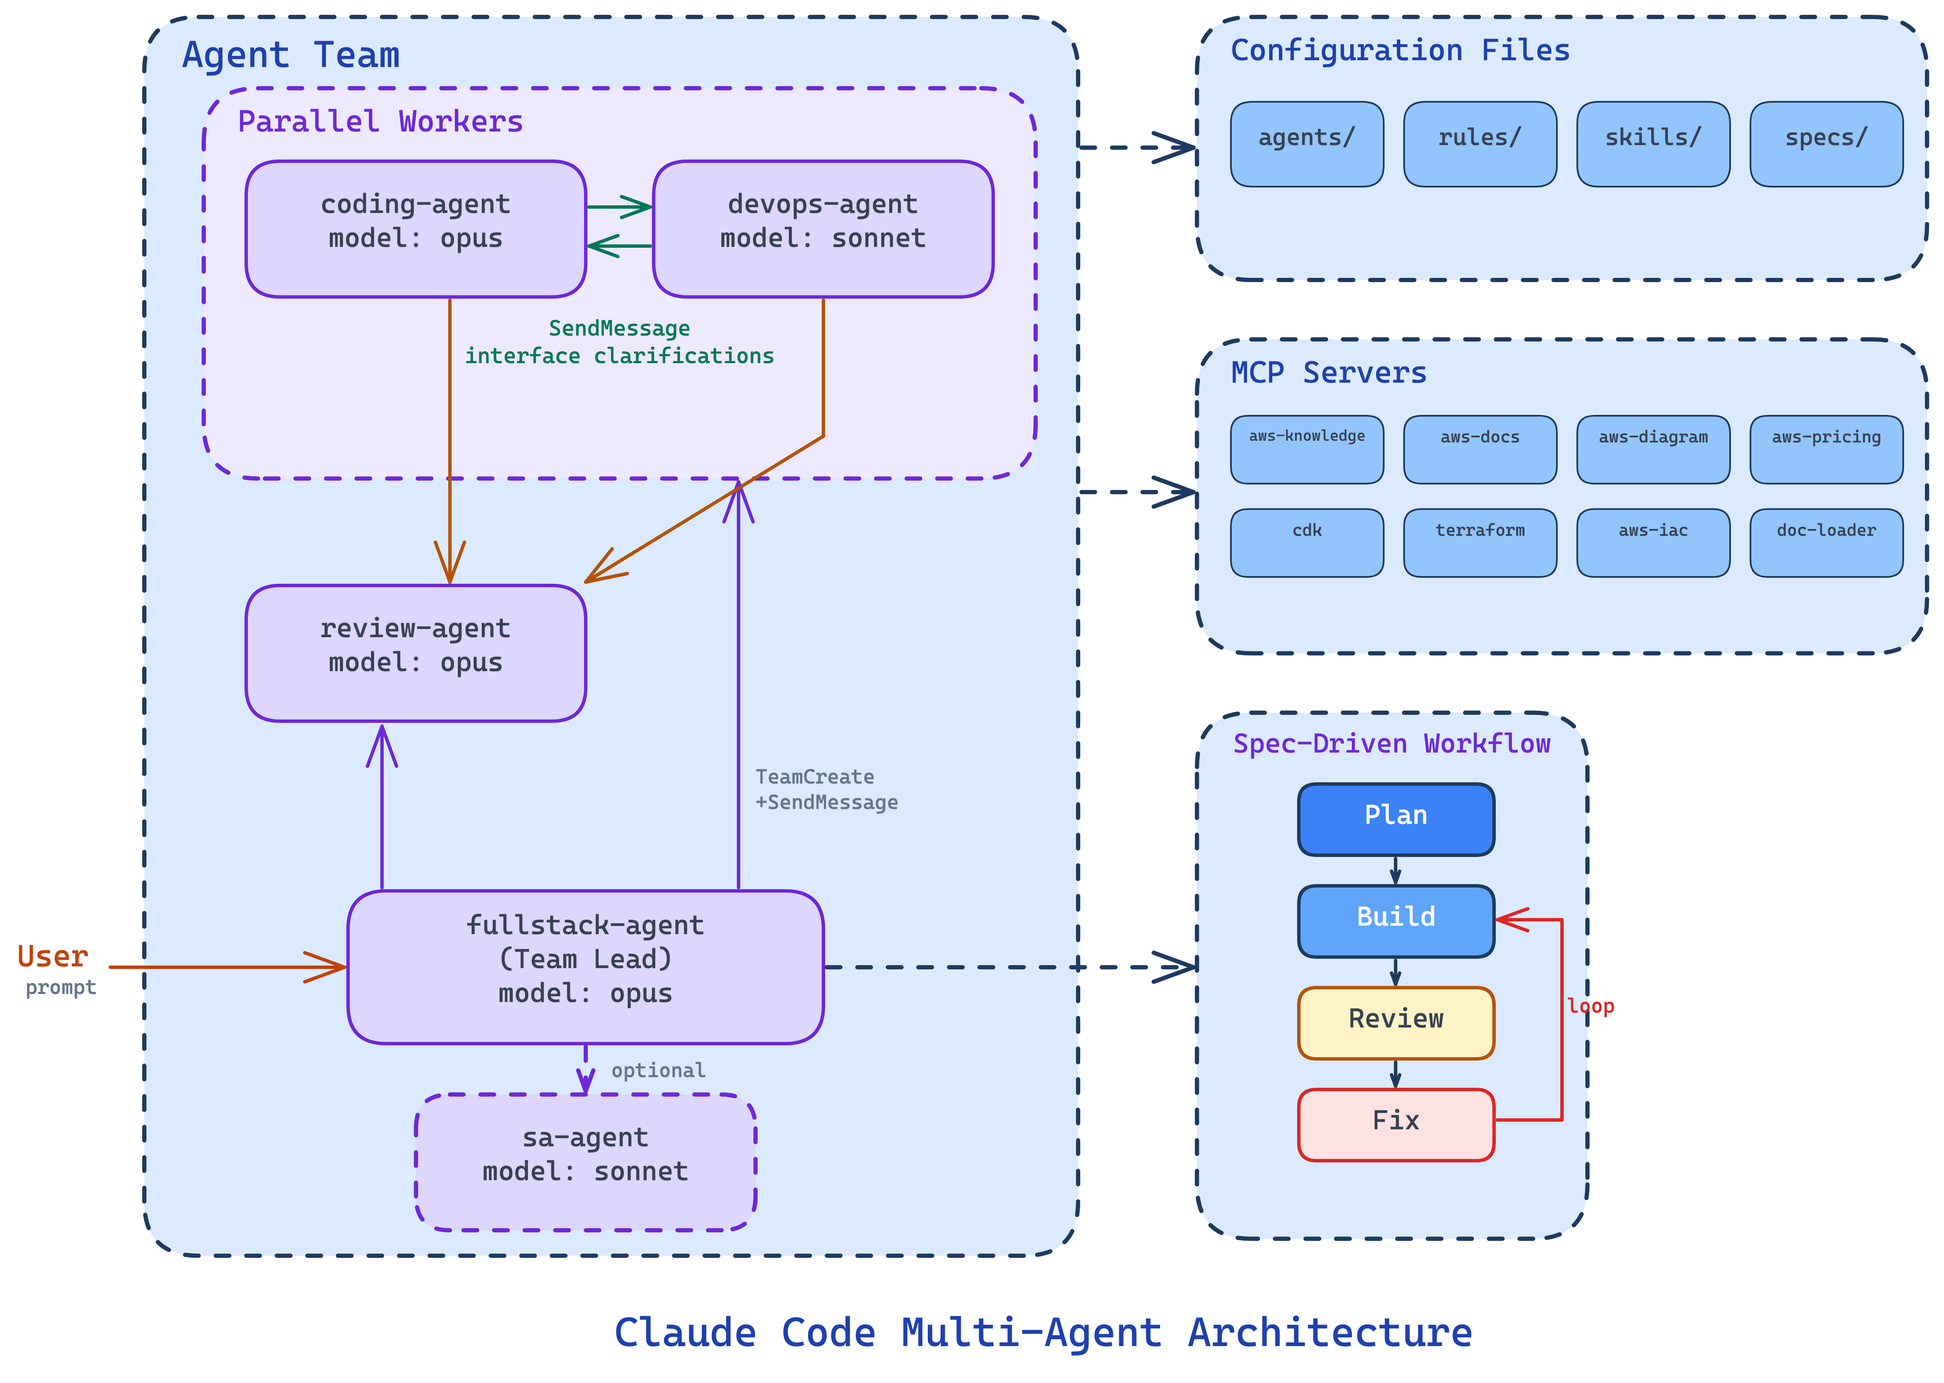
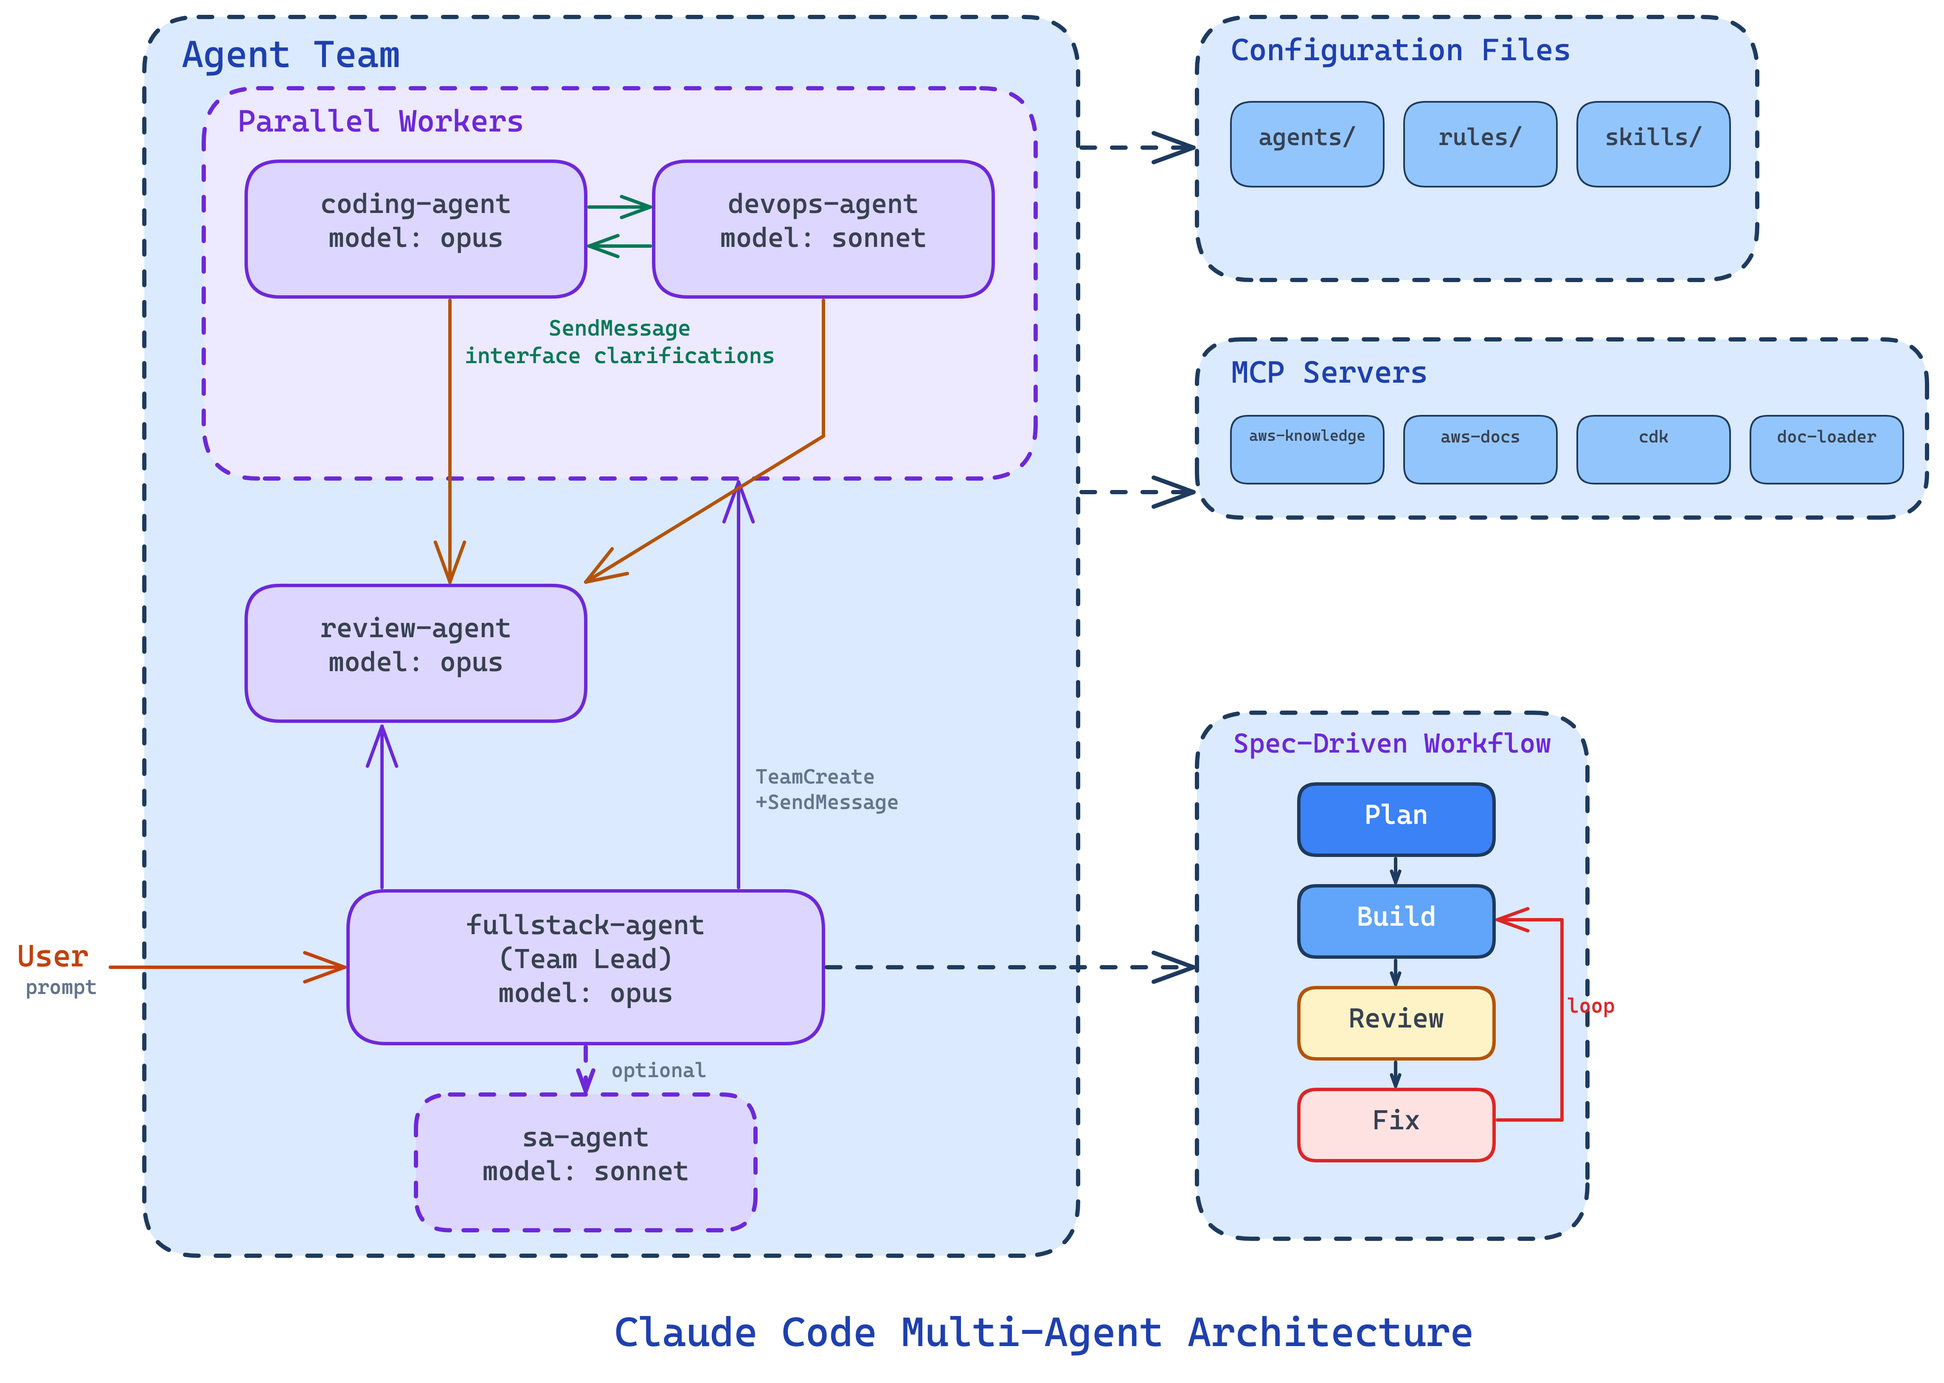
Add AWS plugin usage to replace some MCP servers

Changed region(s): [[0.5932, 0.3098, 0.9991, 0.4957], [0.8742, 0.0, 0.9991, 0.2169]]

diff --git a/README.md b/README.md
@@ -1,6 +1,6 @@
 # Claude Code Multi-Agent Development Sample
 
-A sample configuration for multi-agent development workflows using [Claude Code](https://docs.anthropic.com/en/docs/agents-and-tools/claude-code/overview). Demonstrates how to set up a team of specialized AI agents that collaborate through a spec-driven development process.
+A sample configuration for multi-agent development workflows using [Claude Code](https://docs.anthropic.com/en/docs/agents-and-tools/claude-code/overview). Demonstrates how to set up a team of specialized AI agents that collaborate through a spec-driven development process. Full Stack Developer parent orchestrates three specialists (Coding Agent for application development, DevOps Agent for infrastructure/deployment, and Review Agent for code quality/security). Includes Skills and Steering documents to define agent capabilities, and MCP servers for tooling and knowledge access necessary to deploy a full-stack application to AWS.
 
 > **Disclaimer**: This repository is provided as an example only and is **NOT approved for production use**. The agent configurations, rules, and workflows are starting points — not production-ready defaults. You should review, adjust, and tailor them to fit your own project requirements, team conventions, and security posture. Adoption of this sample requires organizational legal review — you must complete the [LLM Legal Approval](#llm-legal-approval) and [MCP Server Legal Approval](#mcp-server-legal-approval) tables before use.
 
@@ -94,10 +94,30 @@ cp -rn skills/ ~/.claude/skills/
 4. Install required plugins:
 
 ```bash
-# Plugins are installed from the Claude Code marketplace.
+# Most plugins are installed from the Claude Code marketplace.
 # Enable them via settings.json (already configured) or interactively:
 claude /plugins
 ```
+
+The `deploy-on-aws` plugin comes from a custom marketplace (`awslabs/agent-plugins`), not the default Claude plugins marketplace. The provided `settings.json` already includes the required configuration:
+
+```json
+{
+  "enabledPlugins": {
+    "deploy-on-aws@agent-plugins-for-aws": true
+  },
+  "extraKnownMarketplaces": {
+    "agent-plugins-for-aws": {
+      "source": {
+        "source": "github",
+        "repo": "awslabs/agent-plugins"
+      }
+    }
+  }
+}
+```
+
+If you are merging into an existing `settings.json` (Option B), ensure you add both the `enabledPlugins` entry and the `extraKnownMarketplaces` block. Without the marketplace definition, Claude Code cannot resolve the `deploy-on-aws` plugin.
 
 5. Verify MCP servers are working:
 
@@ -173,6 +193,7 @@ This configuration enables the following Claude Code plugins via `settings.json`
 | code-simplifier | Code clarity and maintainability refinement |
 | security-guidance | Security best practices review |
 | frontend-design | Production-grade frontend interface design |
+| deploy-on-aws | AWS deployment workflows — codebase analysis, service recommendation, cost estimation, IaC generation, and deployment. Provides `awsiac` (CloudFormation/CDK validation, compliance, best practices), `awspricing` (pricing data, cost reports), and a diagram skill for architecture diagrams |
 
 ## MCP Servers
 
@@ -182,11 +203,14 @@ MCP servers are configured in [`.mcp.json`](.mcp.json) and auto-installed on fir
 |--------|--------|---------|
 | [aws-knowledge-mcp-server](https://knowledge-mcp.global.api.aws) | AWS (official) | AWS best practices and patterns |
 | [awslabs.aws-documentation-mcp-server](https://github.com/awslabs/mcp) | AWS Labs | AWS service documentation lookup |
-| [awslabs.aws-pricing-mcp-server](https://github.com/awslabs/mcp) | AWS Labs | AWS pricing data and cost analysis |
-| [awslabs.aws-diagram-mcp-server](https://github.com/awslabs/mcp) | AWS Labs | Architecture diagram generation |
-| [awslabs.aws-iac-mcp-server](https://github.com/awslabs/mcp) | AWS Labs | IaC patterns, CDK constructs, and CloudFormation validation |
-| [awslabs.terraform-mcp-server](https://github.com/awslabs/mcp) | AWS Labs | Terraform provider documentation |
 | [awslabs.document-loader-mcp-server](https://github.com/awslabs/mcp) | AWS Labs | Load external documents (PDFs, web pages) |
+| [awslabs.cdk-mcp-server](https://github.com/awslabs/mcp) | AWS Labs | CDK construct documentation and guidance |
+
+> **Note**: The following standalone MCP servers have been replaced by the `deploy-on-aws` plugin and are no longer configured in `.mcp.json`:
+> - `awslabs.aws-pricing-mcp-server` → replaced by `deploy-on-aws:awspricing`
+> - `awslabs.aws-iac-mcp-server` → replaced by `deploy-on-aws:awsiac`
+> - `awslabs.aws-diagram-mcp-server` → deprecated, replaced by `deploy-on-aws` diagram skill
+> - `awslabs.terraform-mcp-server` → deprecated by AWS Labs (recommends HashiCorp's official Terraform MCP Server)
 ## Customization
 
 - **Add agents**: Create a new `<name>.md` in `agents/` with frontmatter (`name`, `description`, `model`), then reference it in the fullstack-agent's team composition
@@ -216,10 +240,6 @@ Adopters must complete this table before using the MCP servers configured in [`.
 |--------|----------|-----------------|--------------|---------------------|-----------------|
 | aws-knowledge-mcp-server | AWS (official) | Approved (AWS ToS) | Yes | Yes | AWS-managed |
 | awslabs.aws-documentation-mcp-server | AWS Labs | Approved (AWS ToS) | Yes | Yes | AWS-managed |
-| awslabs.aws-pricing-mcp-server | AWS Labs | Approved (AWS ToS) | Yes | Yes | AWS-managed |
-| awslabs.aws-diagram-mcp-server | AWS Labs | Approved (AWS ToS) | Yes | Yes | AWS-managed |
-| awslabs.aws-iac-mcp-server | AWS Labs | Approved (AWS ToS) | Yes | Yes | AWS-managed |
-| awslabs.terraform-mcp-server | AWS Labs | Approved (AWS ToS) | Yes | Yes | AWS-managed |
 | awslabs.document-loader-mcp-server | AWS Labs | Approved (AWS ToS) | Yes | Yes | AWS-managed |
 | awslabs.cdk-mcp-server | AWS Labs | Approved (AWS ToS) | Yes | Yes | AWS-managed |
 > **Note**: Third-party MCP servers require independent legal and security review by your organization before use. AWS-provided servers fall under AWS Terms of Service.

diff --git a/agents/fullstack-agent.md b/agents/fullstack-agent.md
@@ -63,7 +63,7 @@ All non-trivial work follows `.claude/rules/spec-workflow.md`. All AWS infrastru
 8. Monitor via `TaskList`. Respond to completions and blockers promptly
 9. Handle blockers: unblock with a decision (log in `decisions.md`), reassign, or escalate
 10. Run tests once all group tasks complete
-10a. Run security scans in order: (a) Static analysis first to catch code issues: `bandit -r src/ -f json -o .claude/specs/<slug>/bandit-results.json` for Python or `semgrep --config auto --json -o .claude/specs/<slug>/semgrep-results.json` for multi-language, (b) Dependency scan for supply chain risks: `safety check --json > .claude/specs/<slug>/safety-results.json`, (c) IaC scan for infrastructure misconfigurations: `checkov -d infra/ -o json > .claude/specs/<slug>/checkov-results.json`. Security implementation priority: (1) Critical findings — block deployment, (2) High findings — fix or document risk acceptance before merge, (3) Medium findings — fix within sprint. Address all Critical and High findings, or document risk acceptance with compensating controls in `.claude/specs/<slug>/security-exceptions.md`. Include scan result artifacts in the spec directory.
+10a. Run security scans in order: (a) Static analysis first to catch code issues: `bandit -r src/ -f json -o .claude/specs/<slug>/bandit-results.json` for Python or `semgrep --config auto --json -o .claude/specs/<slug>/semgrep-results.json` for multi-language, (b) Dependency scan for supply chain risks: `safety check --json > .claude/specs/<slug>/safety-results.json`, (c) IaC scan for infrastructure misconfigurations: use `deploy-on-aws:awsiac` tools — `validate_cloudformation_template` for syntax/schema validation, `check_cloudformation_template_compliance` for security/compliance rules. For Terraform, use `checkov -d infra/ -o json > .claude/specs/<slug>/checkov-results.json`. Security implementation priority: (1) Critical findings — block deployment, (2) High findings — fix or document risk acceptance before merge, (3) Medium findings — fix within sprint. Address all Critical and High findings, or document risk acceptance with compensating controls in `.claude/specs/<slug>/security-exceptions.md`. Include scan result artifacts in the spec directory.
 11. `SendMessage` review handoff to `review-agent` (spec path, cycle number, modified files, acceptance criteria)
 12. Wait for verdict — do NOT proceed until review-agent responds
 
@@ -94,10 +94,17 @@ Each task in `tasks.md` MUST include:
 | `superpowers:code-reviewer` | Plan-alignment review |
 | `pr-review-toolkit:code-reviewer` | CLAUDE.md guideline compliance check |
 
+## AWS Deployment
+
+Use the `deploy-on-aws` plugin for end-to-end AWS deployment workflows:
+- `deploy-on-aws:deploy` skill — analyzes codebase, recommends AWS services, estimates cost, generates IaC, and deploys
+- `deploy-on-aws:awsiac` — CloudFormation template validation (`validate_cloudformation_template`), compliance checking (`check_cloudformation_template_compliance`), CDK best practices (`cdk_best_practices`), deployment troubleshooting (`troubleshoot_cloudformation_deployment`)
+- `deploy-on-aws:awspricing` — pricing data (`get_pricing`), cost analysis reports (`generate_cost_report`), CDK/Terraform project cost estimation (`analyze_cdk_project`, `analyze_terraform_project`)
+
 ## Research
 
 Use built-in tools directly — no need to delegate research:
-- **External**: `WebFetch`, AWS docs MCP, `context7` MCP
+- **External**: `WebFetch`, AWS docs MCP, `deploy-on-aws` plugin, `context7` MCP
 - **Internal**: `Grep`, `Read`, `Glob`, `Agent` with `subagent_type=Explore`
 - Prefer official docs over blogs. Cross-reference when accuracy is critical.
 

diff --git a/agents/devops-agent.md b/agents/devops-agent.md
@@ -14,7 +14,10 @@ You are a DevOps engineer focused on infrastructure, CI/CD, containers, configur
 
 ## Scope
 
-**Infrastructure as Code** — Terraform, AWS Cloud Development Kit (AWS CDK), AWS CloudFormation per the spec. Modular, parameterized, with sane defaults. Always include outputs for values other resources or application code need. Match exact output names/types from the spec.
+**Infrastructure as Code** — Terraform, AWS Cloud Development Kit (AWS CDK), AWS CloudFormation per the spec. Modular, parameterized, with sane defaults. Always include outputs for values other resources or application code need. Match exact output names/types from the spec. Use the `deploy-on-aws` plugin for IaC validation and deployment:
+- `deploy-on-aws:awsiac` — validate CloudFormation templates (`validate_cloudformation_template`), check compliance (`check_cloudformation_template_compliance`), CDK best practices (`cdk_best_practices`), troubleshoot deployments (`troubleshoot_cloudformation_deployment`)
+- `deploy-on-aws:awspricing` — estimate costs for CDK (`analyze_cdk_project`) or Terraform (`analyze_terraform_project`) projects, get pricing data (`get_pricing`)
+- `deploy-on-aws:deploy` skill — end-to-end AWS deployment (analyze, recommend, estimate, generate IaC, deploy)
 
 **CI/CD** — Build, test, scan, deploy stages with clear failure handling. Pin action versions, use caching.
 
@@ -37,6 +40,13 @@ Follow `rules/AWS-security-guidelines.md` for all AWS service security requireme
 Beyond the shared verification gate:
 - Confirm output contracts — exported resources match exact names specified in the task
 - Check for drift-prone patterns — hardcoded values, missing tags, non-deterministic resource names
+
+## deploy-on-aws Plugin
+
+Use for all AWS infrastructure workflows:
+- **Validate before deploy**: Run `validate_cloudformation_template` and `check_cloudformation_template_compliance` via `deploy-on-aws:awsiac` before any CloudFormation/CDK deployment
+- **Cost estimation**: Use `deploy-on-aws:awspricing` to generate cost reports and estimate project costs
+- **Architecture diagrams**: Use the `deploy-on-aws` diagram skill for generating architecture diagrams
 
 ## Plugin Agents (Local Subagents)
 

diff --git a/agents/sa-agent.md b/agents/sa-agent.md
@@ -23,7 +23,12 @@ You are an AWS Solutions Architect. You review and design architecture, recommen
 
 ## MCP Tools (Use for Accuracy — Never Rely on Memory for Pricing/Limits)
 
-AWS documentation, knowledge, pricing, diagram, sentral, CDK, Terraform, IAC MCPs. Also `context7` when application architecture is relevant.
+- **deploy-on-aws plugin** (primary for AWS IaC and pricing):
+  - `deploy-on-aws:awspricing` — pricing data (`get_pricing`), cost reports (`generate_cost_report`), CDK/Terraform project cost estimation (`analyze_cdk_project`, `analyze_terraform_project`), Bedrock patterns (`get_bedrock_patterns`)
+  - `deploy-on-aws:awsiac` — CloudFormation validation, compliance checking, CDK best practices, deployment troubleshooting
+  - `deploy-on-aws` diagram skill — architecture diagram generation
+- **Standalone MCP servers**: AWS documentation, knowledge, CDK, sentral
+- **context7** — when application architecture or library docs are relevant
 
 Always verify: pricing, service limits/quotas, regional feature availability, version compatibility.
 
@@ -31,7 +36,7 @@ Always verify: pricing, service limits/quotas, regional feature availability, ve
 
 **Architecture Review**: Understand workload (SLAs, traffic patterns) -> Map current state -> Assess each WA pillar -> Prioritize by risk x effort -> Recommend specific actions
 
-**New Architecture**: Clarify requirements (functional + NFRs + budget) -> Identify constraints -> Propose with reasoning -> Address trade-offs -> Estimate costs via pricing MCP -> Identify risks
+**New Architecture**: Clarify requirements (functional + NFRs + budget) -> Identify constraints -> Propose with reasoning -> Address trade-offs -> Estimate costs via `deploy-on-aws:awspricing` (`get_pricing`, `generate_cost_report`) -> Identify risks
 
 ## Output Format
 

diff --git a/skills/documentation/SKILL.md b/skills/documentation/SKILL.md
@@ -6,7 +6,7 @@ Use these patterns when writing documentation, creating runbooks, or documenting
 
 | Resource | When to Use |
 |---|---|
-| `awslabs.aws-diagram-mcp-server` | Generate architecture diagrams for system documentation and runbooks |
+| `deploy-on-aws` diagram skill | Generate architecture diagrams for system documentation and runbooks |
 | `awslabs.aws-documentation-mcp-server` | Reference AWS service docs when writing architecture docs or runbooks — link to official docs rather than paraphrasing |
 | `awslabs.document-loader-mcp-server` | Load external reference documents (PDFs, web pages) as source material for documentation |
 | `context7` MCP | Look up library/framework docs to verify technical accuracy in README examples |
@@ -64,7 +64,7 @@ Use OpenAPI/Swagger. Minimum per endpoint:
 What this service does, who owns it.
 
 ## Architecture
-[Use `awslabs.aws-diagram-mcp-server` to generate architecture diagram]
+[Use `deploy-on-aws` diagram skill to generate architecture diagram]
 
 ## Health Checks
 - Endpoint: `GET /health`
@@ -132,5 +132,5 @@ When writing documentation for a project that uses the spec workflow, link to re
 - Keep it scannable (headers, bullets, tables)
 - Update docs when code changes (or automate it)
 - Docs are concise and actionable — no filler
-- Use `awslabs.aws-diagram-mcp-server` for architecture diagrams — don't describe what a diagram can show
+- Use the `deploy-on-aws` diagram skill for architecture diagrams — don't describe what a diagram can show
 - Use `awslabs.document-loader-mcp-server` to load external specs or references rather than copy-pasting content

diff --git a/skills/pr-review/SKILL.md b/skills/pr-review/SKILL.md
@@ -29,8 +29,7 @@ Delegate to these plugins in parallel for deeper automated analysis. Invoke all 
 |---|---|
 | `context7` | Verify library API usage is correct — look up the library docs for functions used in the PR |
 | `awslabs.cdk-mcp-server` | When reviewing CDK constructs — verify construct props and configuration patterns |
-| `awslabs.aws-iac-mcp-server` | When reviewing CloudFormation or CDK-generated templates — check resource specifications |
-| `awslabs.terraform-mcp-server` | When reviewing Terraform modules — verify provider/resource documentation |
+| `deploy-on-aws:awsiac` | When reviewing CloudFormation or CDK-generated templates — validate templates (`validate_cloudformation_template`), check compliance (`check_cloudformation_template_compliance`), get CDK best practices (`cdk_best_practices`) |
 | `awslabs.aws-documentation-mcp-server` | When reviewing AWS service integration code — verify API behavior, limits, error codes |
 **Use MCP lookup when:** you're unsure whether an API is being used correctly, a resource property is valid, or a library function has the expected behavior. Verify before flagging.
 

diff --git a/agents/review-agent.md b/agents/review-agent.md
@@ -26,7 +26,7 @@ Does each task's implementation satisfy acceptance criteria and interface contra
 - **Security**: No hardcoded secrets, input validation at trust boundaries, least-privilege IAM, no injection vulns, OWASP Top 10
 - **Performance**: No N+1 queries, appropriate data structures, resource cleanup
 - **Maintainability**: Clear naming, no unnecessary complexity, follows project conventions
-- **Infrastructure** (when IaC in scope): Correct outputs, consistent tags, no inline secrets, parameterized config
+- **Infrastructure** (when IaC in scope): Correct outputs, consistent tags, no inline secrets, parameterized config. Use `deploy-on-aws:awsiac` tools — `validate_cloudformation_template` for syntax/schema checks, `check_cloudformation_template_compliance` for security/compliance rules — to validate CloudFormation/CDK templates as part of the review
 
 #### Security Review Checklist (priority order)
 
